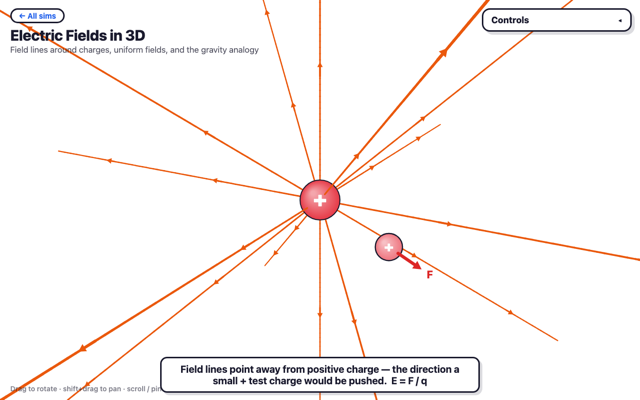
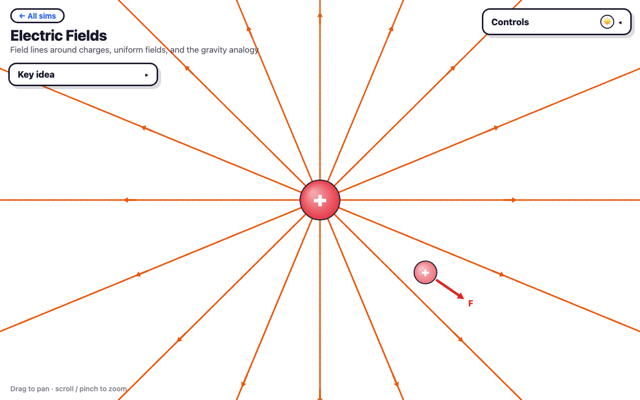
Electric field sim: rebuild the 1D uniform-field cells
Both 1D cells (charged plates, flat ground) were drawn dead-on, which
flattened the slabs into trapezoids whose near faces ran off the right
edge and under the control panel, and left the gravity one as arrows
hanging in a white void over a grey block.

- Plates and ground now share one geometry table and one camera, so
  flipping Electric<->Gravity in the 1D column swaps only the source.
  Gentle three-quarter view + softer focal keeps the whole scene inside
  the strip left of the panel.
- Field lines run in two depth rows x four columns, each with a head at
  the bottom and one at mid-height, so "same everywhere" is visible.
- Plate charge is chunky camera-facing +/- glyphs on the inner faces,
  white-understroked and depth-pinned (the plate's front face was
  painting over the far half of them).
- Fringing is a graded fan: three bows per side per depth row, each
  starting nearer the edge and swinging further out, thinning outward.
- Added the plate-separation dimension 'd' (it's in the footer equation
  but was nowhere in the picture), drawn over the fan.
- Ground is grass on soil instead of an abstract grey wall.
- Test object: shared slider rescaled (not clamped) into the plate
  width, landing its default in a gap between field lines; stands
  forward in z; force arrow stops at the boundary instead of punching
  through the far plate, and is labelled beside the shaft there.
- Control panel: dropped the CHARGES / TEST CHARGE headings, moved the
[…]

diff --git a/electromagnetism/electric-field.html b/electromagnetism/electric-field.html
@@ -128,7 +128,6 @@ function inlineSeg(parent, label, options, value, onChange) {
   parent.lastElementChild.classList.add('inline');
   return h;
 }
-function groupTitle(g) { return g.querySelector('.group-title'); }
 
 const gf = ui.group(null);
 wideSeg(gf, [
@@ -153,20 +152,30 @@ const signOpts = [
   { value: '-1', label: '−' },
   { value: '0', label: 'off' }
 ];
-const gc = ui.group('Charges');
-inlineSeg(gc, 'Charge 1', signOpts, '1', v => { S.charge1 = parseInt(v); sync(); });
-inlineSeg(gc, 'Charge 2', signOpts, '0', v => { S.charge2 = parseInt(v); sync(); });
-
-const gt = ui.group('Test charge');
+/* No group headings here: every row already names itself ('Charge 1', 'Test
+   charge', …), so a 'CHARGES' / 'TEST CHARGE' caption above them was just
+   repeating the row underneath it. They also all live in ONE ctl-group — split
+   across two, the group's own margin made the Charge-2-to-test-charge gap
+   visibly wider than the Charge-1-to-Charge-2 one; in a single group every row
+   is spaced by the same .ctl-seg padding. */
+const gt = ui.group(null);
 // gravity has no negative mass, so that column of the grid gets a plain
-// show/hide in place of the +/−/off sign picker
-const signSeg = inlineSeg(gt, 'Sign', signOpts, '1', v => { S.testCharge = parseInt(v); });
+// show/hide in place of the +/−/off sign picker. Only one of the two rows is
+// ever visible, so each carries the name the vanished heading used to.
+const signSeg = inlineSeg(gt, 'Test charge', signOpts, '1', v => { S.testCharge = parseInt(v); });
 const signRow = gt.lastElementChild;
-const massSeg = wideSeg(gt, [
+const massSeg = inlineSeg(gt, 'Test mass', [
   { value: '1', label: 'show' },
   { value: '0', label: 'hide' }
 ], '1', v => { S.testCharge = parseInt(v); });
 const massRow = gt.lastElementChild;
+
+// the two source-charge slots, shown/hidden as a unit (only the point-charge
+// cells have them) without disturbing the shared row spacing
+const gc = document.createElement('div');
+gt.appendChild(gc);
+inlineSeg(gc, 'Charge 1', signOpts, '1', v => { S.charge1 = parseInt(v); sync(); });
+inlineSeg(gc, 'Charge 2', signOpts, '0', v => { S.charge2 = parseInt(v); sync(); });
 
 const cartWrap = document.createElement('div');
 gt.appendChild(cartWrap);
@@ -209,7 +218,6 @@ function sync() {
   srcSlider.set(srcSlider.get()); // repaint the value with the new unit
 
   gc.style.display = S.preset === 'point' ? '' : 'none';
-  groupTitle(gt).textContent = isG ? 'Test mass' : 'Test charge';
   signRow.style.display = isG ? 'none' : '';
   massRow.style.display = isG ? '' : 'none';
   S.testCharge = parseInt((isG ? massSeg : signSeg).get());
@@ -398,18 +406,26 @@ function headOn(pts, frac, fwd, col) {
    uniform straight-down line the interior gets — the real (non-ideal-infinite-
    plate) field bulges outward past the edge and curves back to the other
    plate. Modelled as a cosmetic bow (not solved from fieldAt's hard-cutoff
-   box), seeded just inboard of the physical edge so it visibly departs
-   from the plate. */
-function edgePlateBow(x0, z) {
+   box) running plate-to-plate at x0 and bulging `bulge` past it. */
+function edgePlateBow(x0, z, bulge) {
   const pts = [];
-  const N = 24;
+  const N = 26;
   const y0 = U.gap - 0.06;
   for (let i = 0; i <= N; i++) {
     const t = i / N;
-    pts.push([x0 + Math.sign(x0) * 0.7 * Math.sin(Math.PI * t), y0 - 2 * y0 * t, z]);
+    pts.push([x0 + Math.sign(x0) * bulge * Math.sin(Math.PI * t), y0 - 2 * y0 * t, z]);
   }
   return pts;
 }
+/* the fan of them: the nearer a line starts to the edge, the further out it
+   swings — three per side per depth row, thinning outwards because the field
+   really is weaker out there. One lone bow read as a stray line; a graded fan
+   reads as the field spilling round the edge, which is what it does. */
+const FRINGE = [
+  { inset: 0.55, bulge: 0.42, width: 3.2 },
+  { inset: 0.22, bulge: 0.80, width: 2.8 },
+  { inset: -0.02, bulge: 1.15, width: 2.4 }
+];
 
 /* surface charge on a plate face, drawn as two chunky strokes in a
    camera-facing plane rather than as a text glyph: at 26px a '−' is a hairline
@@ -423,8 +439,15 @@ function chargeGlyph(p, sign, col) {
   const cp = Math.cos(eng.cam.pitch), sp = Math.sin(eng.cam.pitch);
   const right = [cy, 0, -sy], up = [-sp * sy, cp, -sp * cy];
   const h = 0.17, dep = eng.project(p).depth - 4;
-  eng.line([v3.sub(p, v3.mul(right, h)), v3.add(p, v3.mul(right, h))], { color: col, width: 5, depthOverride: dep });
-  if (sign > 0) eng.line([v3.sub(p, v3.mul(up, h)), v3.add(p, v3.mul(up, h))], { color: col, width: 5, depthOverride: dep });
+  const strokes = [[right, h], [up, sign > 0 ? h : 0]];
+  // white understroke first, colour on top: a red '+' on a red plate (or blue
+  // '−' on blue) is nearly invisible without the outline
+  for (const [c, w] of [['#fff', 9], [col, 5]])
+    for (const [dir, len] of strokes) {
+      if (!len) continue;
+      eng.line([v3.sub(p, v3.mul(dir, len)), v3.add(p, v3.mul(dir, len))],
+               { color: c, width: w, depthOverride: dep - (c === '#fff' ? 0 : 0.01) });
+    }
 }
 
 /* one field line of a uniform field: a straight run with a head at the bottom
@@ -442,11 +465,19 @@ function uniformLine(x, z, yTop, yBot, col) {
    equation (E = V/d) but was nowhere in the picture. */
 function dimensionD() {
   const x = -U.hw - 0.45, z = U.hd * 0.75, h = U.gap;
-  for (const s of [1, -1]) {
-    eng.line([[x, 0.22 * s, z], [x, h * s, z]], { color: INK, width: 2.5, arrow: true });
-    eng.line([[x - 0.22, h * s, z], [x + 0.22, h * s, z]], { color: INK, width: 2.5 });
+  // white understroke + a hard depthOverride: it stands in the middle of the
+  // fringing fan, and like any dimension on a drawing it has to read *over*
+  // whatever it crosses rather than getting tangled in it
+  const dep = eng.project([x, 0, z]).depth - 5;
+  for (const [col, extra] of [['#fff', 5], [INK, 0]]) {
+    for (const s of [1, -1]) {
+      eng.line([[x, 0.22 * s, z], [x, h * s, z]],
+               { color: col, width: 2.5 + extra, arrow: col === INK, depthOverride: dep + (extra ? 0.01 : 0) });
+      eng.line([[x - 0.22, h * s, z], [x + 0.22, h * s, z]],
+               { color: col, width: 2.5 + extra, depthOverride: dep + (extra ? 0.01 : 0) });
+    }
   }
-  eng.label([x, 0, z], 'd', { color: INK, size: 22, lift: 0.4 });
+  eng.label([x, 0, z], 'd', { color: INK, size: 22, lift: 5.4 });
 }
 
 function frame() {
@@ -469,20 +500,21 @@ function frame() {
         chargeGlyph([x, U.gap - 0.2, 0], 1, POS);
         chargeGlyph([x, -U.gap + 0.2, 0], -1, NEG);
       }
+      dimensionD(); // an annotation, not a field line — belongs to Labels
     }
     if (S.lines) {
       for (const z of U.colZ) for (const x of U.colX)
         uniformLine(x, z, U.gap - 0.06, -U.gap + 0.06, E_COL);
-      for (const side of [-1, 1]) {
-        const pts = edgePlateBow(side * (U.hw - 0.35), 0);
-        eng.line(pts, { color: E_COL, width: 3 });
+      for (const side of [-1, 1]) for (const z of U.colZ) for (const f of FRINGE) {
+        const pts = edgePlateBow(side * (U.hw - f.inset), z, f.bulge);
+        eng.line(pts, { color: E_COL, width: f.width });
         headOn(pts, 0.5, true, E_COL);
       }
       if (S.labels) {
-        // in the gap between the two right-hand columns — the left of the gap is
-        // where the fringing bow lives
-        eng.label([1.6, 1.35, U.colZ[1]], 'E', { color: E_COL, size: 26, lift: 1.4 });
-        dimensionD();
+        // same spot as the 'g' in the gravity cell — in the window between the
+        // fringing bow and the leftmost column, well clear of the test charge
+        // (whose own F label would otherwise crowd it when the force points up)
+        eng.label([-0.30, 1.35, U.colZ[1]], 'E', { color: E_COL, size: 26, lift: 1.4 });
       }
     }
   } else if (S.preset === 'surfacegravity') {
@@ -502,7 +534,7 @@ function frame() {
       // boundary instead of two, which is exactly the analogy being taught
       for (const z of U.colZ) for (const x of U.colX)
         uniformLine(x, z, 2.35, -U.gap + 0.06, G_COL);
-      if (S.labels) eng.label([U.colX[0] - 0.45, 1.4, U.colZ[1]], 'g', { color: G_COL, size: 26, lift: 1.4 });
+      if (S.labels) eng.label([-0.30, 1.35, U.colZ[1]], 'g', { color: G_COL, size: 26, lift: 1.4 });
     }
   } else if (S.preset === 'earth') {
     eng.sphere([0, 0, 0], 1.3, '#3b82f6', { stroke: '#1e40af', strokeWidth: 2 });
@@ -538,7 +570,9 @@ function frame() {
   if (S.vectors) {
     const pts = [];
     if (S.preset === 'plates' || S.preset === 'surfacegravity') {
-      for (const x of [-3, -1.5, 0, 1.5, 3]) for (const y of [-1.2, 0, 1.2]) pts.push([x, y, 0]);
+      // one z-row, on the same columns as the field lines, so switching between
+      // the two representations doesn't shuffle the geometry around
+      for (const x of U.colX) for (const y of [-1.3, 0, 1.3]) pts.push([x, y, 0]);
     } else {
       for (let x = -4.5; x <= 4.6; x += 1.5) for (let z = -4.5; z <= 4.6; z += 1.5) pts.push([x, 0, z]);
     }
@@ -563,9 +597,9 @@ function frame() {
       // instead of walking the test object out into the zero-field region (and
       // under the control panel). The 0.64 also drops the default 2.6 into the
       // gap between the two right-hand field-line columns.
-      tp[0] = pos.x * 0.64;
+      tp[0] = pos.x * 0.70;
       tp[1] = pos.z * 0.4;
-      tp[2] = U.hd * 0.8; // stand it in front of both field-line rows, so it and
+      tp[2] = U.hd * 0.95; // stand it in front of both field-line rows, so it and
                           // its force arrow never sit on top of a field line
     }
     const E = v3.mul(fieldAt(tp, chs), S.Q);
@@ -578,11 +612,14 @@ function frame() {
       const fhat = v3.norm(isG ? E : F);
       const flen = 0.5 + Math.min(2.2, Fmag * 3);
       const from = v3.add(tp, v3.mul(fhat, 0.34)), to = v3.add(tp, v3.mul(fhat, 0.34 + flen));
-      eng.arrow(from, to, { color: F_COL, width: 5 });
-      // labelled beside the shaft rather than past the head: in the uniform
-      // cells the arrow points straight down, and a label past its head landed
-      // buried in the bottom plate / underground
-      if (S.labels) eng.label(v3.lerp(from, to, 0.5), 'F', { color: F_COL, size: 24, dx: 22, lift: 1.4 });
+      const uniform = S.preset === 'plates' || S.preset === 'surfacegravity';
+      // in the uniform cells the arrow is long enough to punch through the far
+      // plate / bury its head in the grass — stop it at the boundary instead,
+      // and label it beside the shaft, since a label past the head would land
+      // inside the plate / underground too
+      if (uniform) to[1] = Math.max(-U.gap + 0.18, Math.min(U.gap - 0.18, to[1]));
+      eng.arrow(from, to, { color: F_COL, width: 5, label: (S.labels && !uniform) ? 'F' : '' });
+      if (S.labels && uniform) eng.label(v3.lerp(from, to, 0.5), 'F', { color: F_COL, size: 24, dx: 24, lift: 1.4 });
     }
   }
 